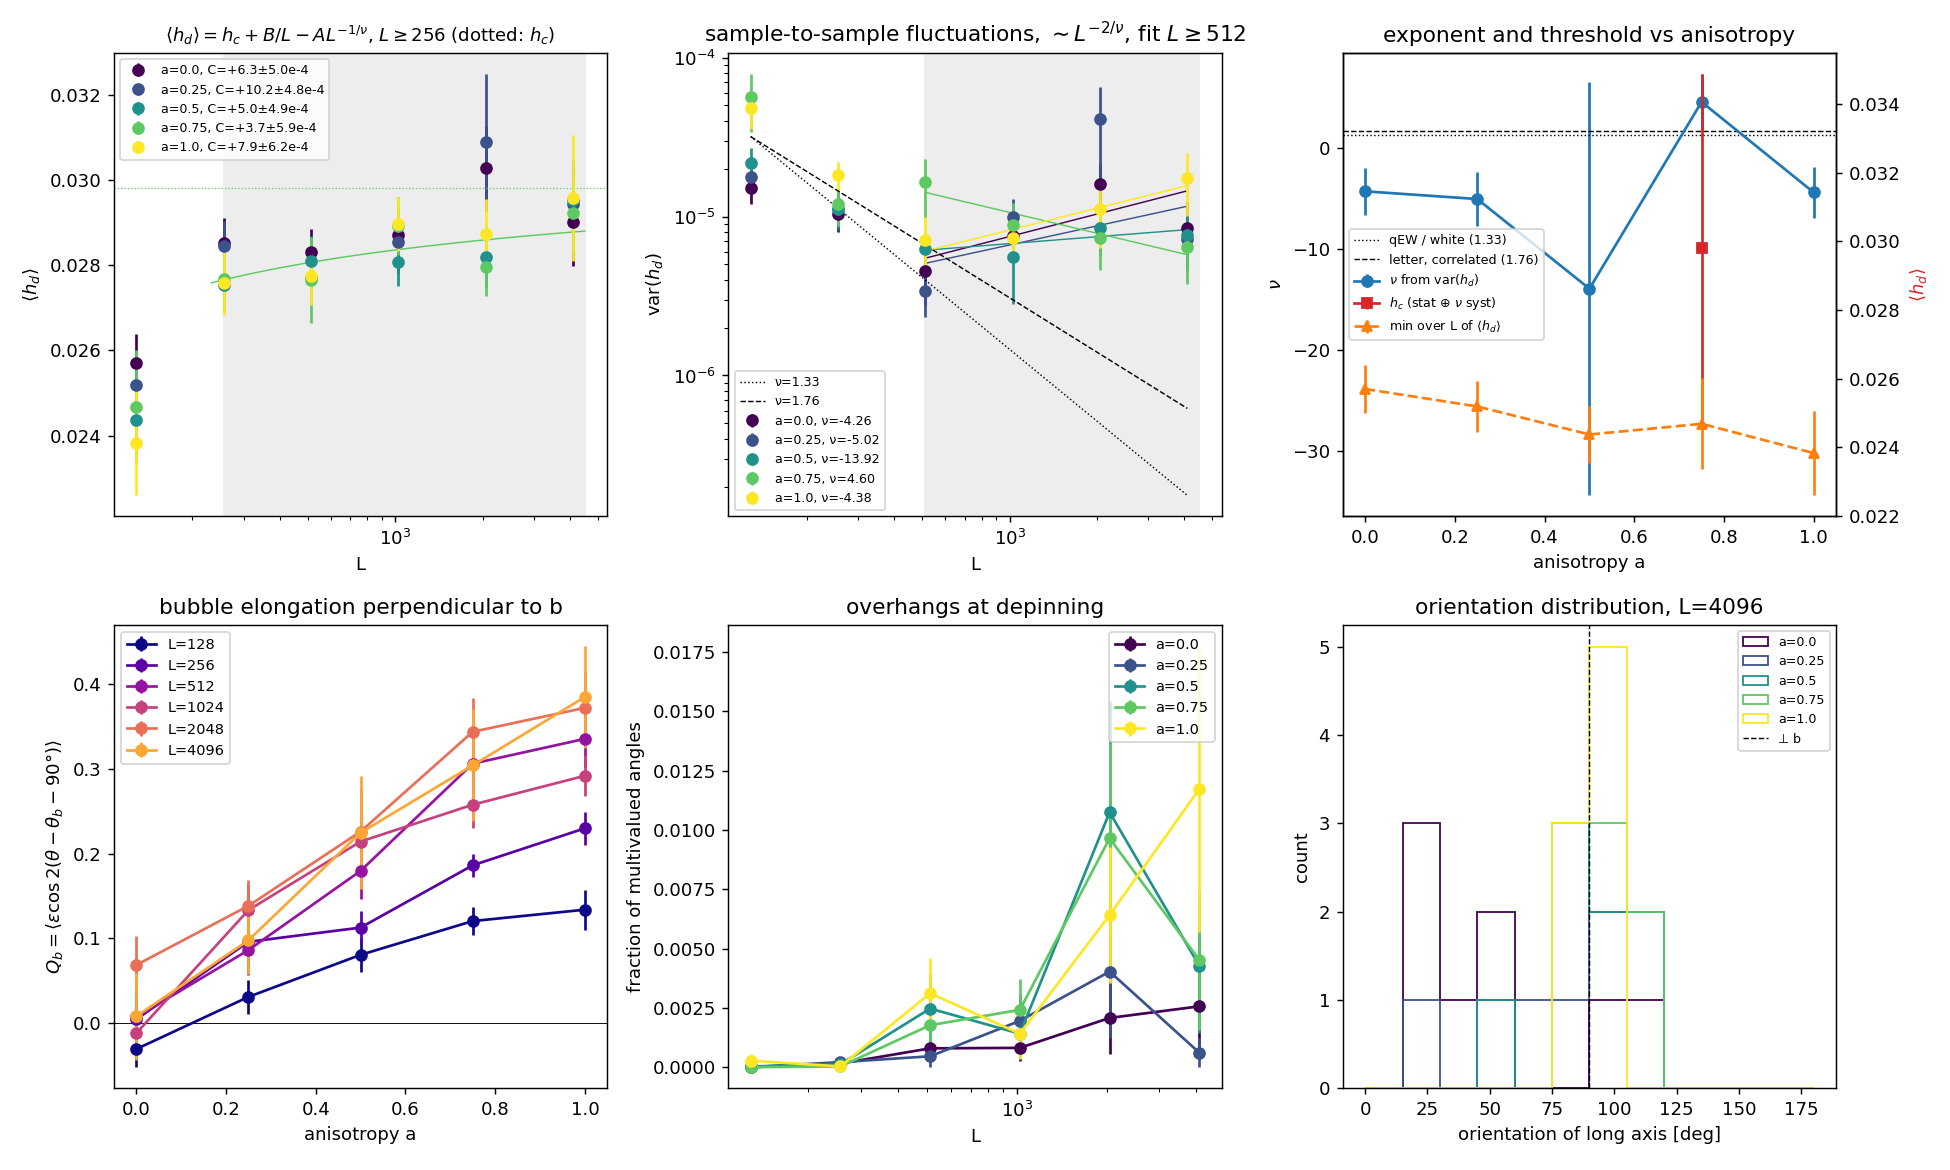
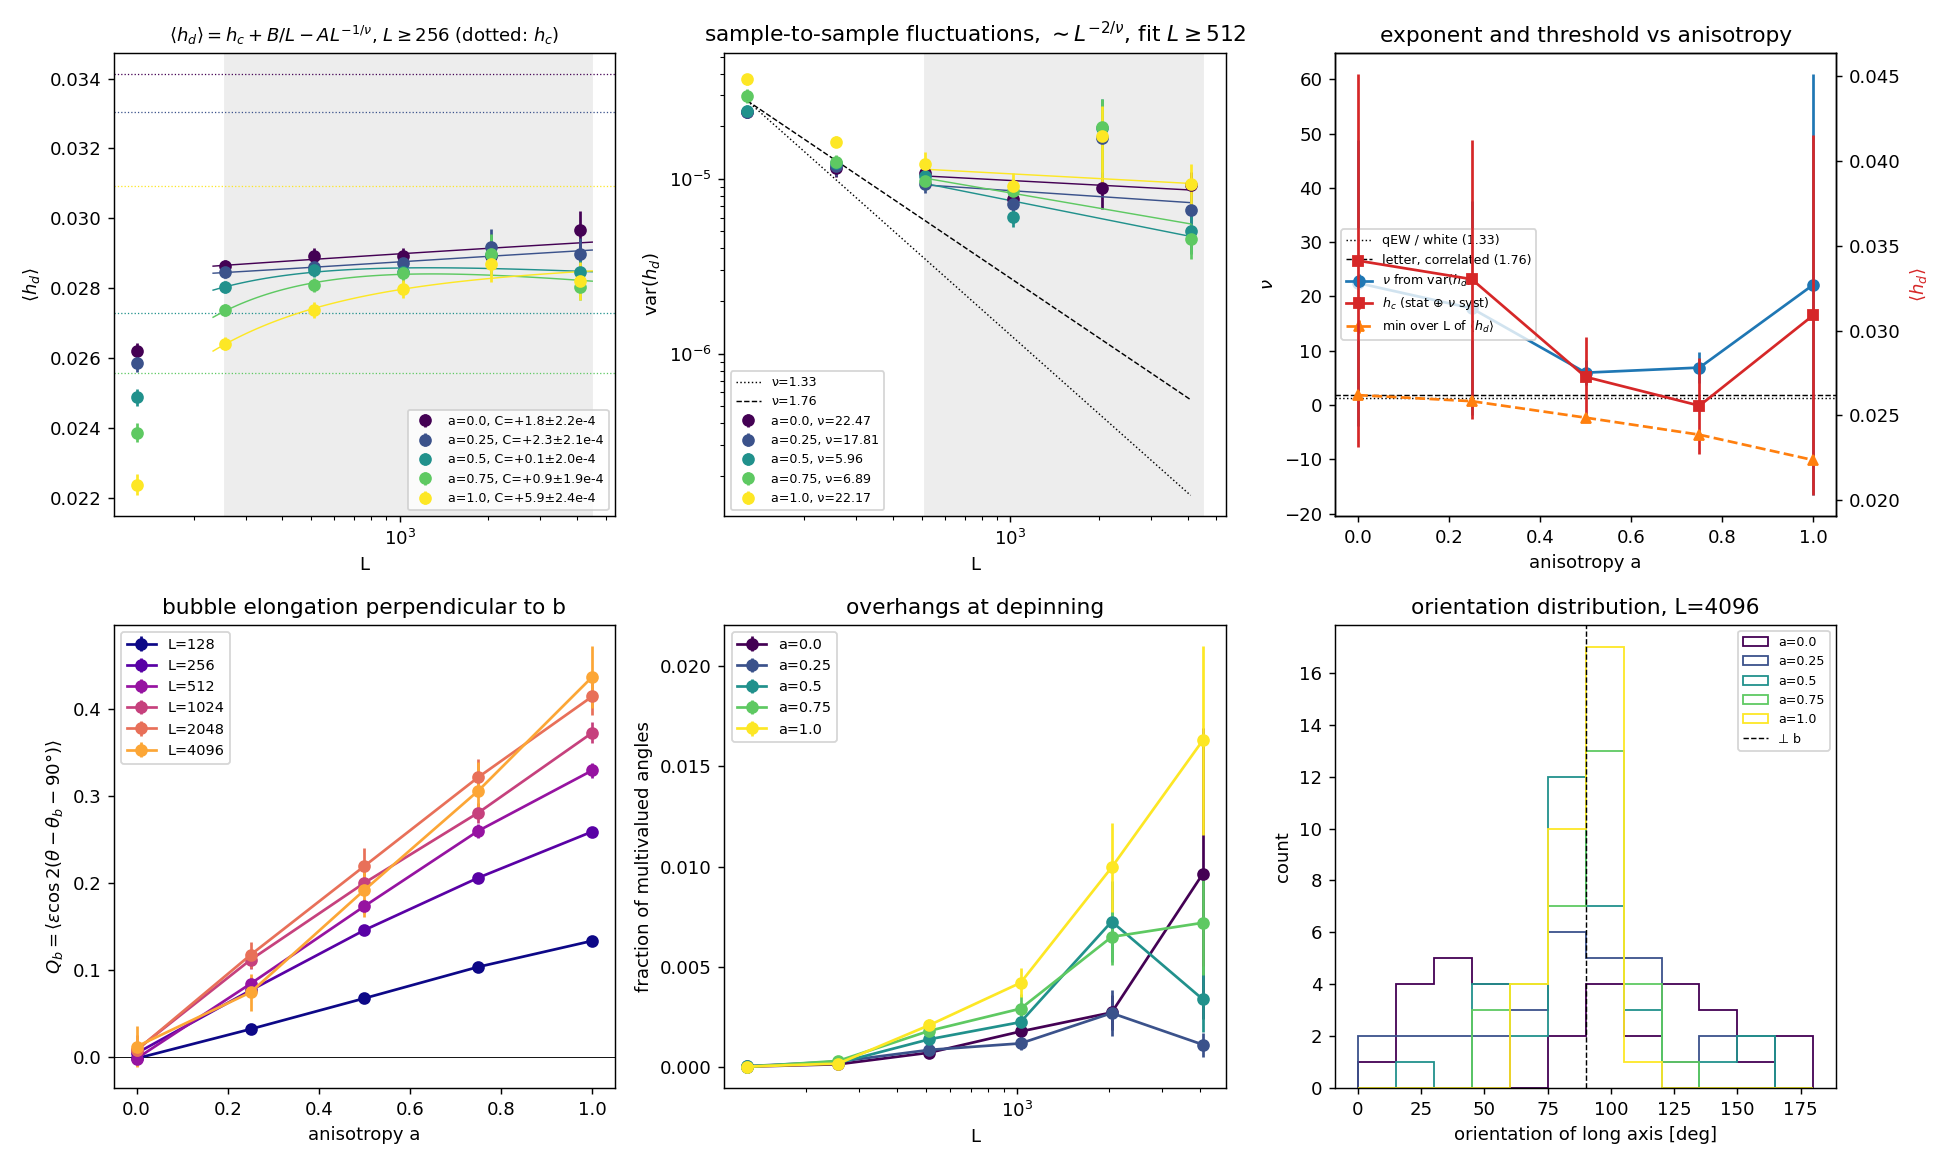
fss_flat: fit from the 2nd mode, tolerate empty low-q bins; measured GPU cost
The flat-wall zeta window started at mode 8 (q >= 2 pi 8/P), which is above
q = 0.1 for walls shorter than ~500 sites, so every L = 256 fit was NaN. On
the first screw-wall data (L = 512, 1024, a > 0) zeta is the same for fit
floors n >= 1 ... 8, so the periodic walls show no low-mode depletion: the
floor is now n = 2. fit() averages each log bin over the walls that have a
mode in it (kept if at least half do) instead of dropping walls with an
empty bin. slurm_fss_flat.sh: cost header from the measured timings.
Analysis outputs for flat_D0.04_b0_A2 (first 2 shards) and the completed
fss_D0.04_R32 summary.

diff --git a/bubble_sim/fss_flat.py b/bubble_sim/fss_flat.py
@@ -16,7 +16,9 @@ Critical flat walls (fss_scan.py --geometry flat): extraction and analysis.
        (periodic over one period), S_psi(q) = P |c_n|^2 ~ q^(1 - 2 zeta), valid
        through overhangs and for zeta > 1 (as fss_contours.py for bubbles);
      * Cartesian KFR profile: S_u(q) of u(x) ~ q^-(1 + 2 zeta), for comparison;
-     * local zeta_eff(q), zeta fits with bootstrap errors (window 2 pi 8/P .. 0.1);
+     * local zeta_eff(q), zeta fits with bootstrap errors (window 2 pi 2/P .. 0.1:
+       from the second mode of the wall up to the noise core; the periodic walls
+       show no low-mode depletion, zeta is the same from n >= 1 to n >= 8);
      * memory check: the same, split at the median distance travelled by the
        wall before it got pinned for the last time;
      * h_d: mean and var(h_d) ~ L^(-2/nu) (L >= lmin).
@@ -42,7 +44,7 @@ CFG_RE = re.compile(r"L(\d+)_a([0-9.]+)_s(\d+)\.npz$")
 Q_EDGES = np.geomspace(1e-3, 2.0, 34)
 QC = np.sqrt(Q_EDGES[1:] * Q_EDGES[:-1])
 Q_MAX = 0.1
-N_MIN = 8
+N_MIN = 2                      # lowest mode fitted (n = 1, the box-scale mode, left out)
 DS = 0.5
 B = 300
 RNG = np.random.default_rng(5)
@@ -179,16 +181,25 @@ def wall_spectra(curve, u, L, m=2):
 
 
 def fit(X, qlo, qhi, kind):
-    ok = (QC >= qlo) & (QC <= qhi)
-    X = X[np.all(np.isfinite(X[:, ok]), axis=1)] if ok.any() else X
-    if ok.sum() < 3 or len(X) < 4:
+    """Power-law fit of the sample-averaged binned spectrum over qlo <= q <= qhi.
+    Near the lowest modes a log bin can be empty for some walls (their mode
+    spacing 2 pi / P is wider than the bin), so each bin is averaged over the
+    walls that have it, and kept if at least half of them do."""
+    X = np.asarray(X)
+    if len(X) < 4:
+        return np.nan, np.nan
+    ok = (QC >= qlo) & (QC <= qhi) & (np.isfinite(X).sum(0) >= max(2, len(X) / 2))
+    if ok.sum() < 3:
         return np.nan, np.nan
 
     def one(Y):
-        sl = np.polyfit(np.log(QC[ok]), np.log(Y[:, ok].mean(0)), 1)[0]
+        m = np.nanmean(Y[:, ok], 0)
+        if not np.all(np.isfinite(m)):
+            return np.nan
+        sl = np.polyfit(np.log(QC[ok]), np.log(m), 1)[0]
         return (1 - sl) / 2 if kind == "psi" else -(1 + sl) / 2
     z0 = one(X)
-    return z0, np.std([one(X[RNG.integers(0, len(X), len(X))]) for _ in range(B)], ddof=1)
+    return z0, np.nanstd([one(X[RNG.integers(0, len(X), len(X))]) for _ in range(B)], ddof=1)
 
 
 # ---------------------------------------------------------------------------
@@ -256,7 +267,7 @@ def analyse(dirs, outdir, lmin):
         ax.set_title("local exponent", fontsize=10); ax.legend(fontsize=6, ncol=2)
         # zeta vs a: intrinsic, Cartesian, and split by travel
         ax = axs[row, 2]
-        out.append("  zeta (window 2 pi 8/P .. 0.1): intrinsic S_psi | Cartesian u(x) | intrinsic, travel < median / > median")
+        out.append("  zeta (window 2 pi 2/P .. 0.1): intrinsic S_psi | Cartesian u(x) | intrinsic, travel < median / > median")
         for L, ls in zip(Ls, (":", "-.", "--", "-")):
             zi, zc = [], []
             for a in As:
